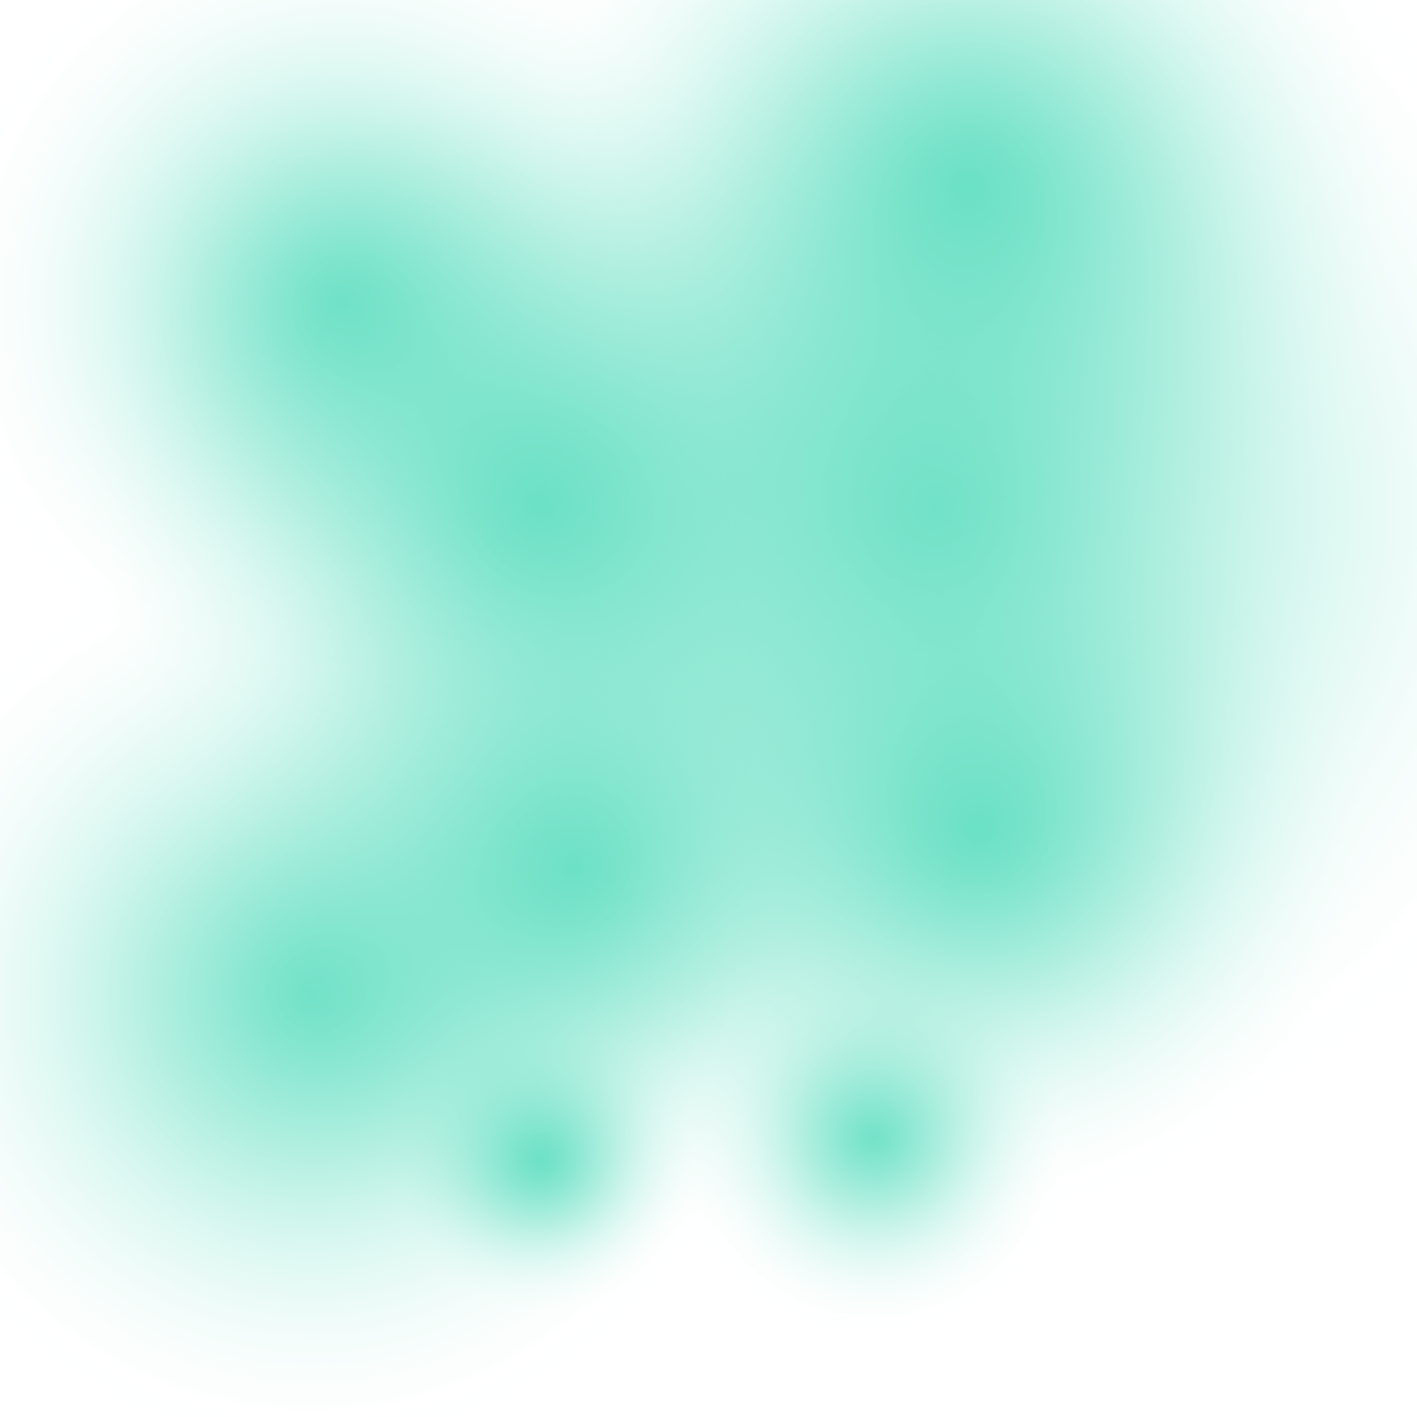
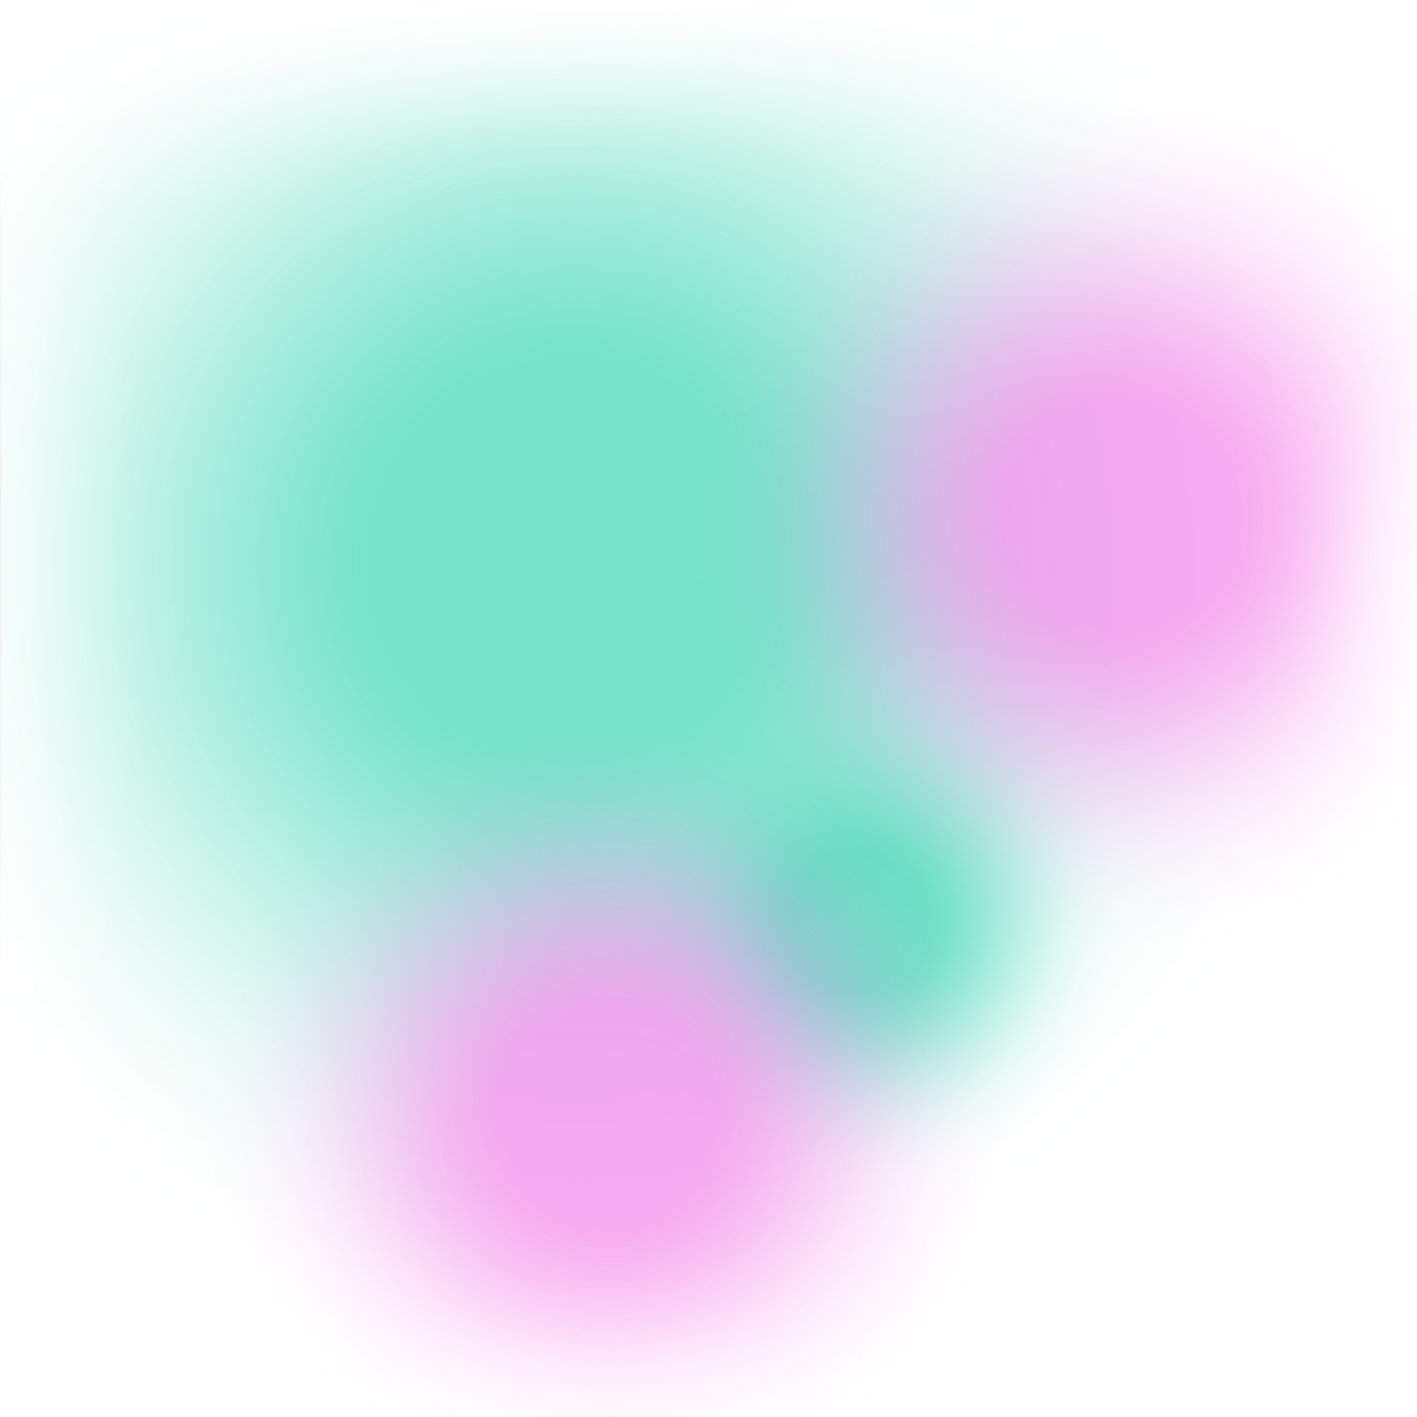
feat: reusable gradient

diff --git a/app/samochody/[slug]/page.tsx b/app/samochody/[slug]/page.tsx
@@ -6,6 +6,7 @@ import { notFound } from "next/navigation";
 import CarForm from "../../../components/CarForm";
 import { Section, Wrapper } from "../../../components/ui";
 import { lobster } from "../../fonts";
+import { Gradient } from "../../../components/Gradient";
 
 export const revalidate = 120;
 
@@ -19,8 +20,8 @@ export default async function CarPage({
 
   const { content, gallery } = singleCar;
   return (
-    <Section className="bg-foreground">
-      <Wrapper className="relative">
+    <Section className="relative bg-foreground">
+      <Wrapper className="relative z-10">
         <h2
           className={`${lobster.className} block md:hidden text-4xl text-primary font-bold tracking-wide`}
         >
@@ -50,6 +51,7 @@ export default async function CarPage({
           </div>
         </div>
       </Wrapper>
+      <Gradient className="top-50 scale-x-150 left-50 -translate-x-1/2 opacity-10" />
     </Section>
   );
 }

diff --git a/components/Description/index.tsx b/components/Description/index.tsx
@@ -1,10 +1,11 @@
 import { Section, Wrapper } from "../ui";
 import { lobster } from "../../app/fonts";
 import Image from "next/image";
+import { Gradient } from "../Gradient";
 
 export default function Description() {
   return (
-    <Section className=" bg-foreground">
+    <Section className="relative bg-foreground overflow-hidden">
       <Wrapper className="h-full flex flex-col gap-20">
         <h2
           className={`${lobster.className} text-center text-primary text-4xl md:text-6xl`}
@@ -45,6 +46,7 @@ export default function Description() {
           </div>
         </div>
       </Wrapper>
+      <Gradient className="scale-150 translate-x-48 md:-translate-x-1/2 opacity-10" />
     </Section>
   );
 }

diff --git a/app/promo/page.tsx b/app/promo/page.tsx
@@ -4,7 +4,7 @@ import { BsYoutube } from "react-icons/bs";
 import { Gradient } from "../../components/Gradient";
 export default function page() {
   return (
-    <Section className="relative bg-foreground h-screen min-h-screen-[unset]">
+    <Section className="relative bg-foreground h-screen min-h-screen-[unset] overflow-hidden">
       <Wrapper className="w-full h-full flex">
         <div className="relative hidden md:block w-full h-full">
           <iframe
@@ -37,7 +37,7 @@ export default function page() {
           </Link>
         </div>
       </Wrapper>
-      <Gradient />
+      <Gradient className="scale-x-100 right-50 translate-x-1/2 opacity-5 md:opacity-10" />
     </Section>
   );
 }

diff --git a/components/Gradient/index.tsx b/components/Gradient/index.tsx
@@ -1,9 +1,12 @@
 import Image from "next/image";
+import { cn } from "../../lib/utils";
 
-export const Gradient = () => {
+interface GradientProps extends React.ImgHTMLAttributes<HTMLImageElement> {}
+
+export const Gradient = ({ className }: GradientProps) => {
   return (
     <Image
-      className="absolute top-50 left-0 opacity-10"
+      className={cn("absolute opacity-15", className)}
       src="/gradient.png"
       fill
       alt="Gradient"

diff --git a/app/samochody/page.tsx b/app/samochody/page.tsx
@@ -20,7 +20,7 @@ export default async function Home() {
       <Wrapper className="grid md:grid-cols-2 lg:grid-cols-3 grid-flow-row gap-16 md:gap-7 lg:gap-4">
         {cars && carArray.map((car, i) => <CarCard key={i} car={car} />)}
       </Wrapper>
-      <Gradient />
+      <Gradient className="md:scale-x-100 md:-translate-x-1/2 opacity-10" />
     </Section>
   );
 }
